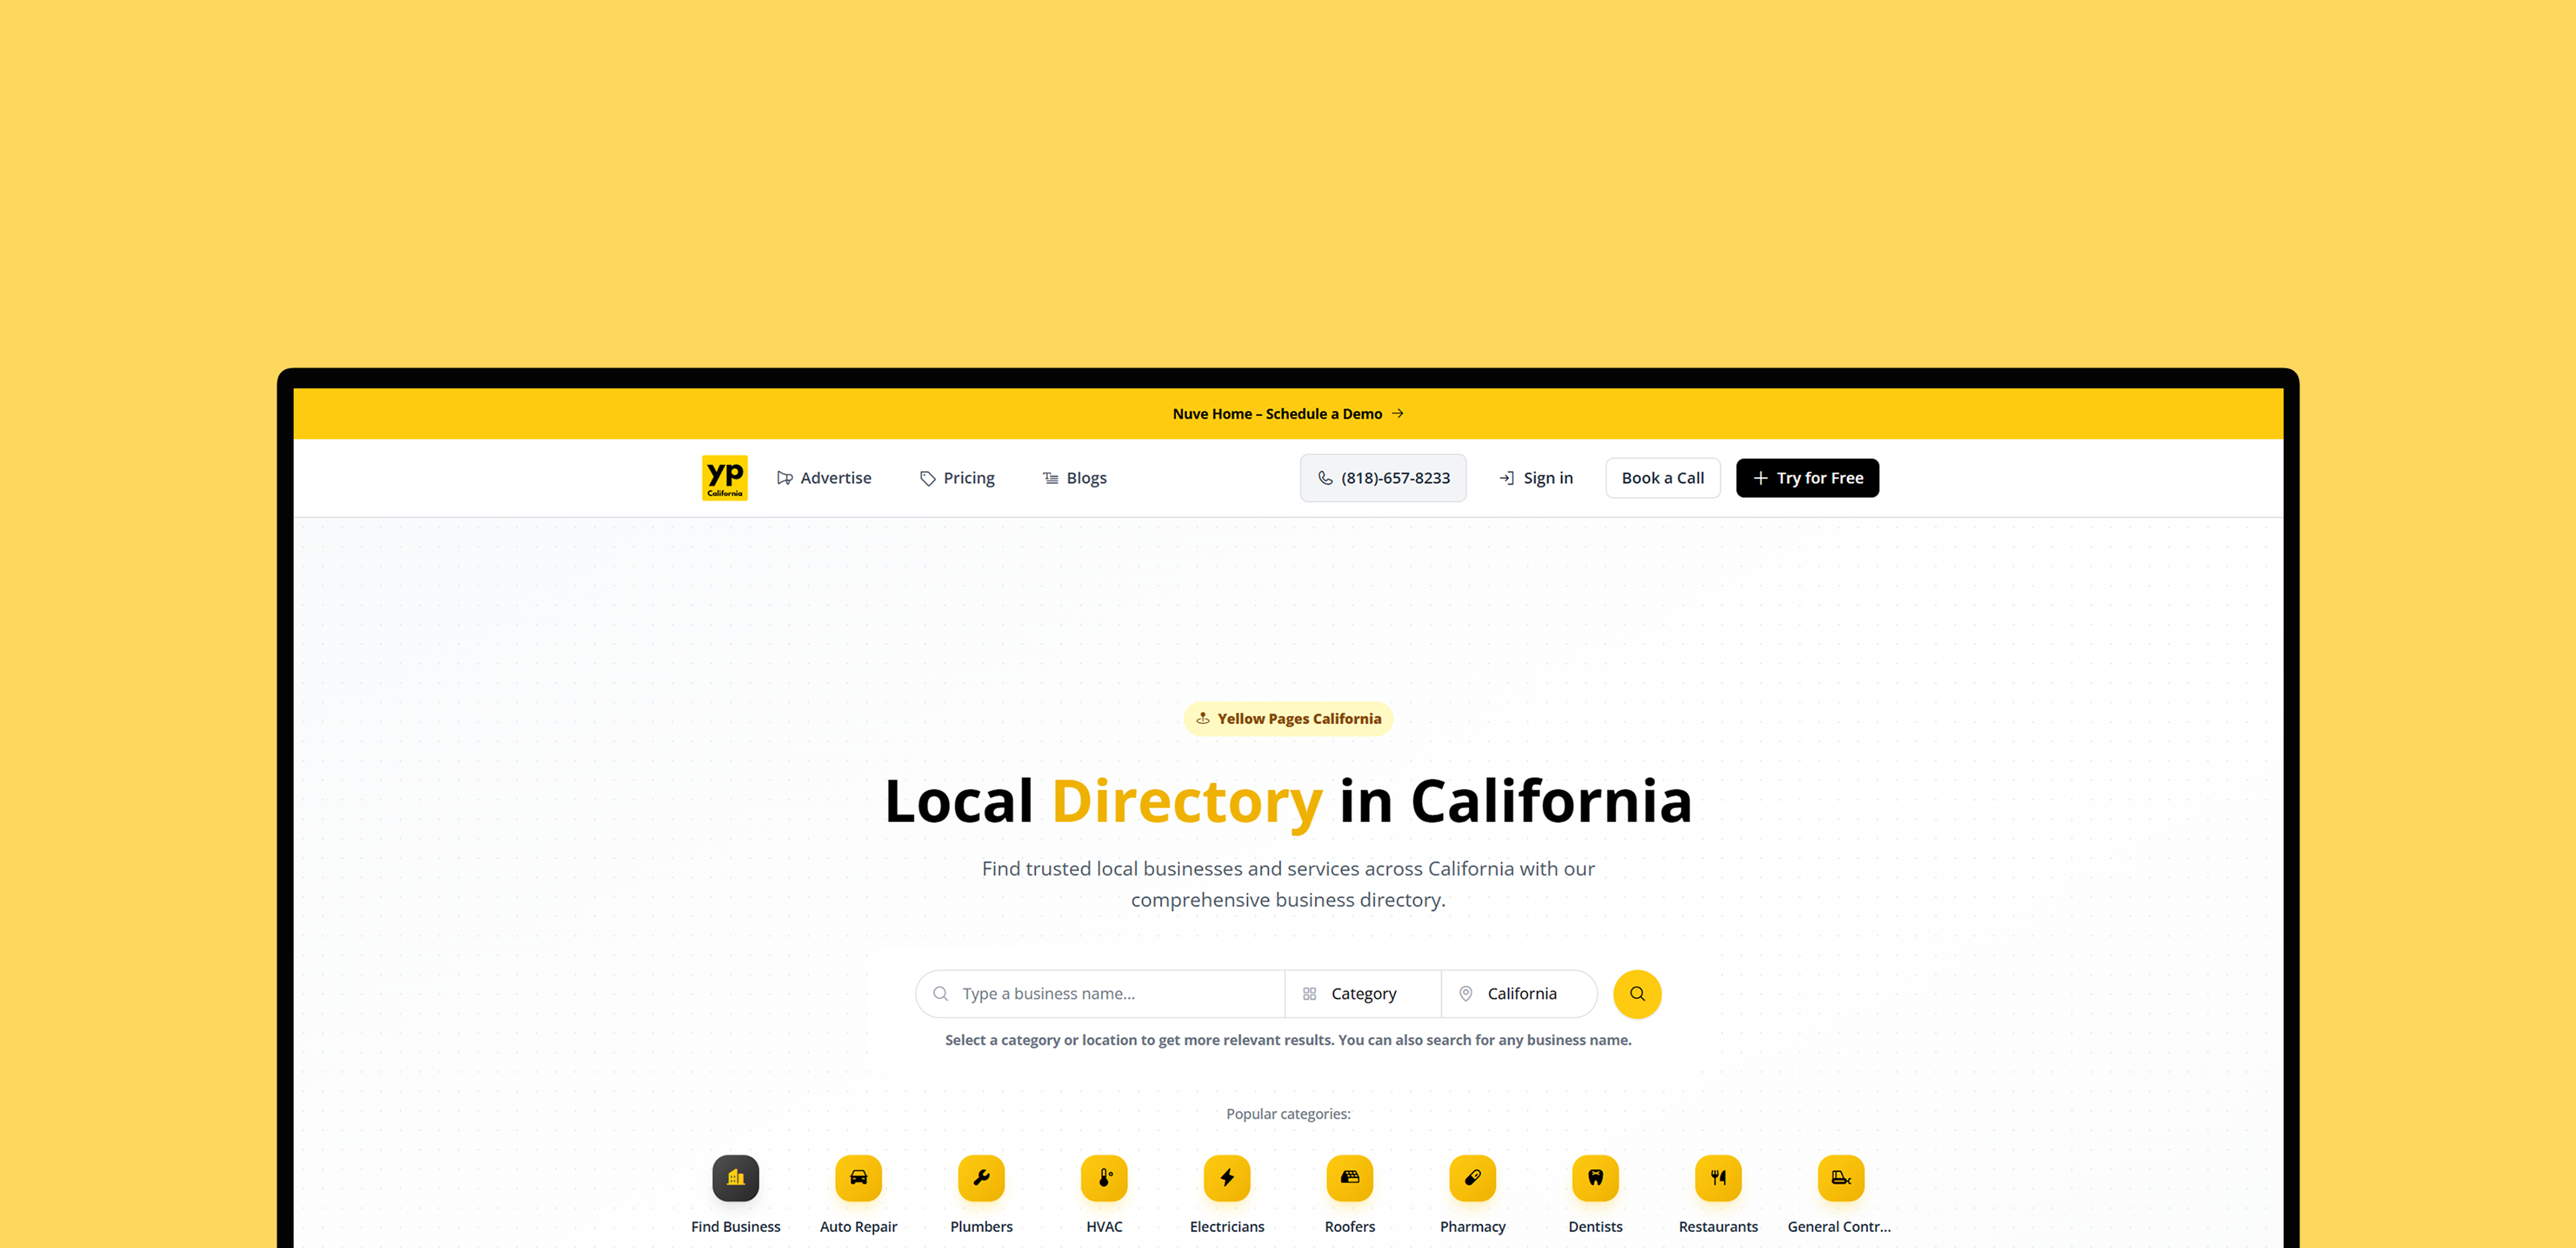
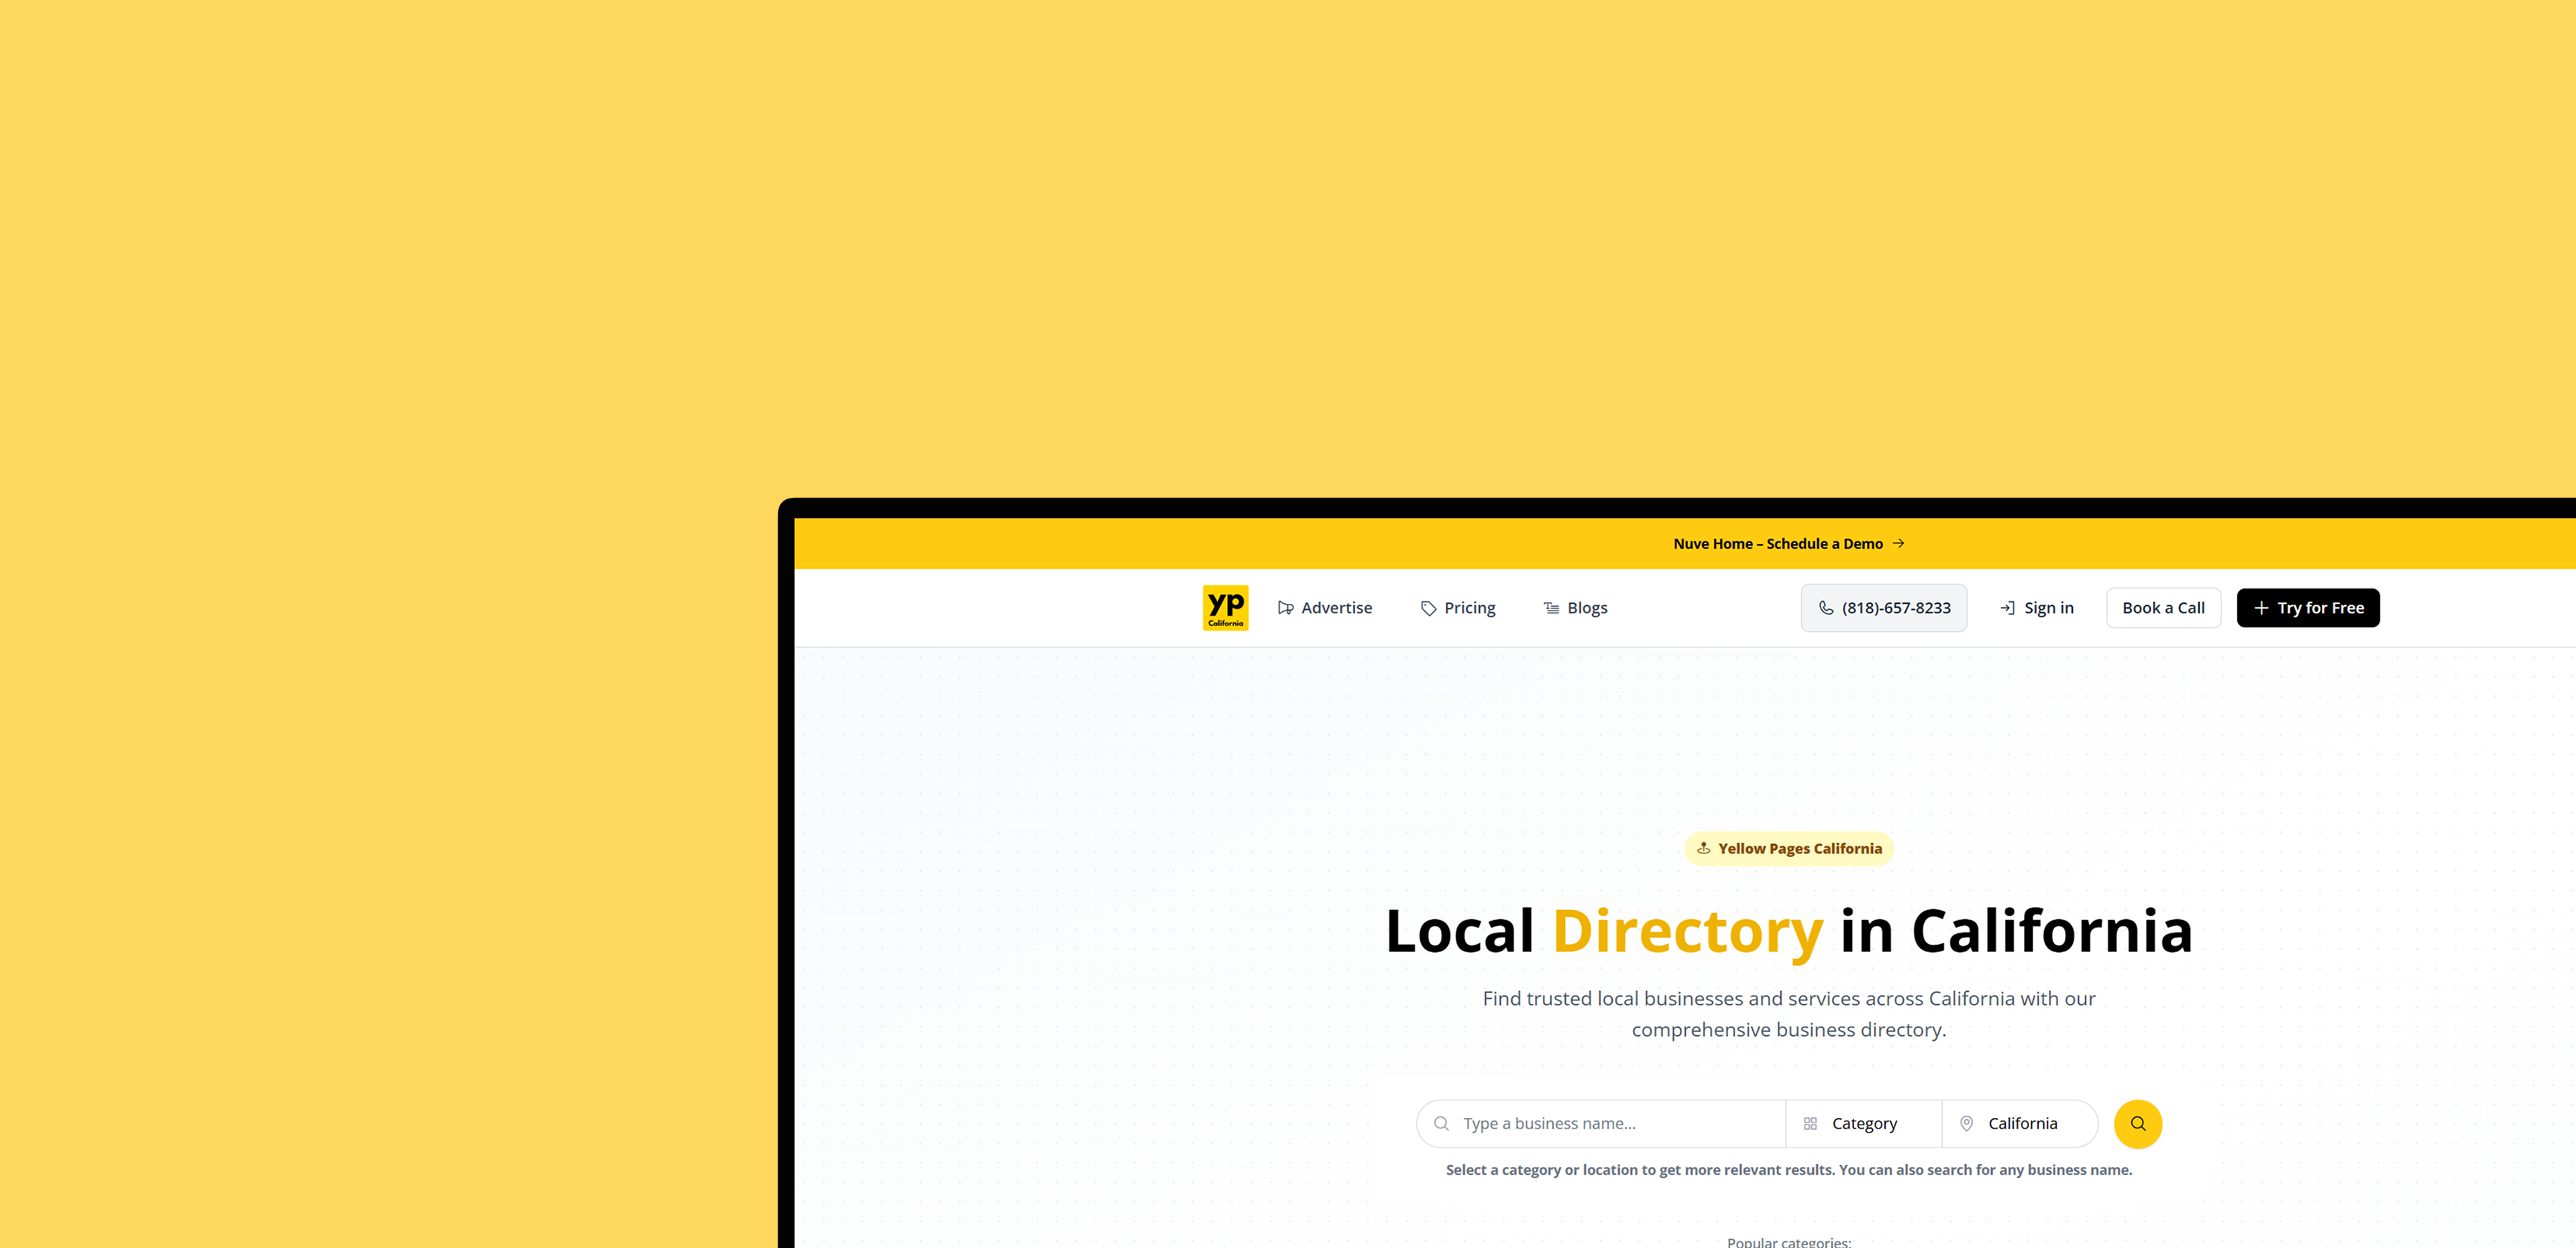
Update

diff --git a/app/work/[slug]/page.tsx b/app/work/[slug]/page.tsx
@@ -10,7 +10,7 @@ import Image from 'next/image';
 
 type CurrentProjectProps = ProjectProps & { showcase: ShowcaseProps[] };
 
-type NextProjectProps = Pick<ProjectProps, 'name' | 'slug' | 'cover'> | undefined;
+type NextProjectProps = Pick<ProjectProps, 'name' | 'slug' | 'cover' | 'footer_cover'> | undefined;
 
 export default async function page({ params }: { params: Promise<{ slug: string }> }) {
   const { slug } = await params;
@@ -29,6 +29,7 @@ export default async function page({ params }: { params: Promise<{ slug: string 
       slug: true,
       name: true,
       cover: true,
+      footer_cover: true,
     },
   });
 
@@ -78,7 +79,7 @@ export default async function page({ params }: { params: Promise<{ slug: string 
       {nextProject ? (
         <Footer
           navigation={{ name: nextProject.name, path: `/work/${nextProject.slug}` }}
-          cover={`/images/projects/${nextProject.slug}/${nextProject.cover}`}
+          cover={`/images/projects/${nextProject.slug}/${nextProject.footer_cover}`}
         />
       ) : (
         <Footer navigation={{ name: 'Service', path: '/service' }} />

diff --git a/components/footer.tsx b/components/footer.tsx
@@ -42,7 +42,7 @@ export default function Footer({ navigation, cover }: { navigation: NavLink; cov
           ))}
         </div>
       </div>
-      <div className="bg-gray-100 grow grid-stack overflow-hidden isolate group/next">
+      <div className="bg-gray-100 grid grow grid-stack overflow-hidden isolate group/next">
         {cover && (
           <Image
             width={3840}
@@ -50,7 +50,7 @@ export default function Footer({ navigation, cover }: { navigation: NavLink; cov
             loading="lazy"
             src={cover}
             alt={cover}
-            className="stack size-full -z-1 group-hover/next:scale-100 scale-101 transition-[scale,filter] duration-300 will-change-[scale,filter] ease-in-out brightness-100 group-hover/next:brightness-80 object-cover"
+            className="stack size-full -z-1 group-hover/next:scale-[1.01] scale-102 transition-[scale,filter] duration-300 will-change-[scale,filter] ease-in-out brightness-100 group-hover/next:brightness-80 object-cover place-self-center"
           />
         )}
         <div className="pt-10 px-6 z-10">

diff --git a/app/globals.css b/app/globals.css
@@ -132,7 +132,7 @@
     cursor: pointer;
   }
   html {
-    @apply font-sans;
+    @apply scrollbar-thumb-zinc-400 scrollbar-track-zinc-200 font-sans;
   }
 }
 

diff --git a/lib/schema.ts b/lib/schema.ts
@@ -23,6 +23,7 @@ export const projectsTable = sqliteTable('projects', {
   slug: text().notNull(),
   thumbnail: text().notNull(),
   cover: text().notNull(),
+  footer_cover: text().notNull(),
   name: text().notNull(),
   description: text().notNull(),
   subordinate: text().notNull(),